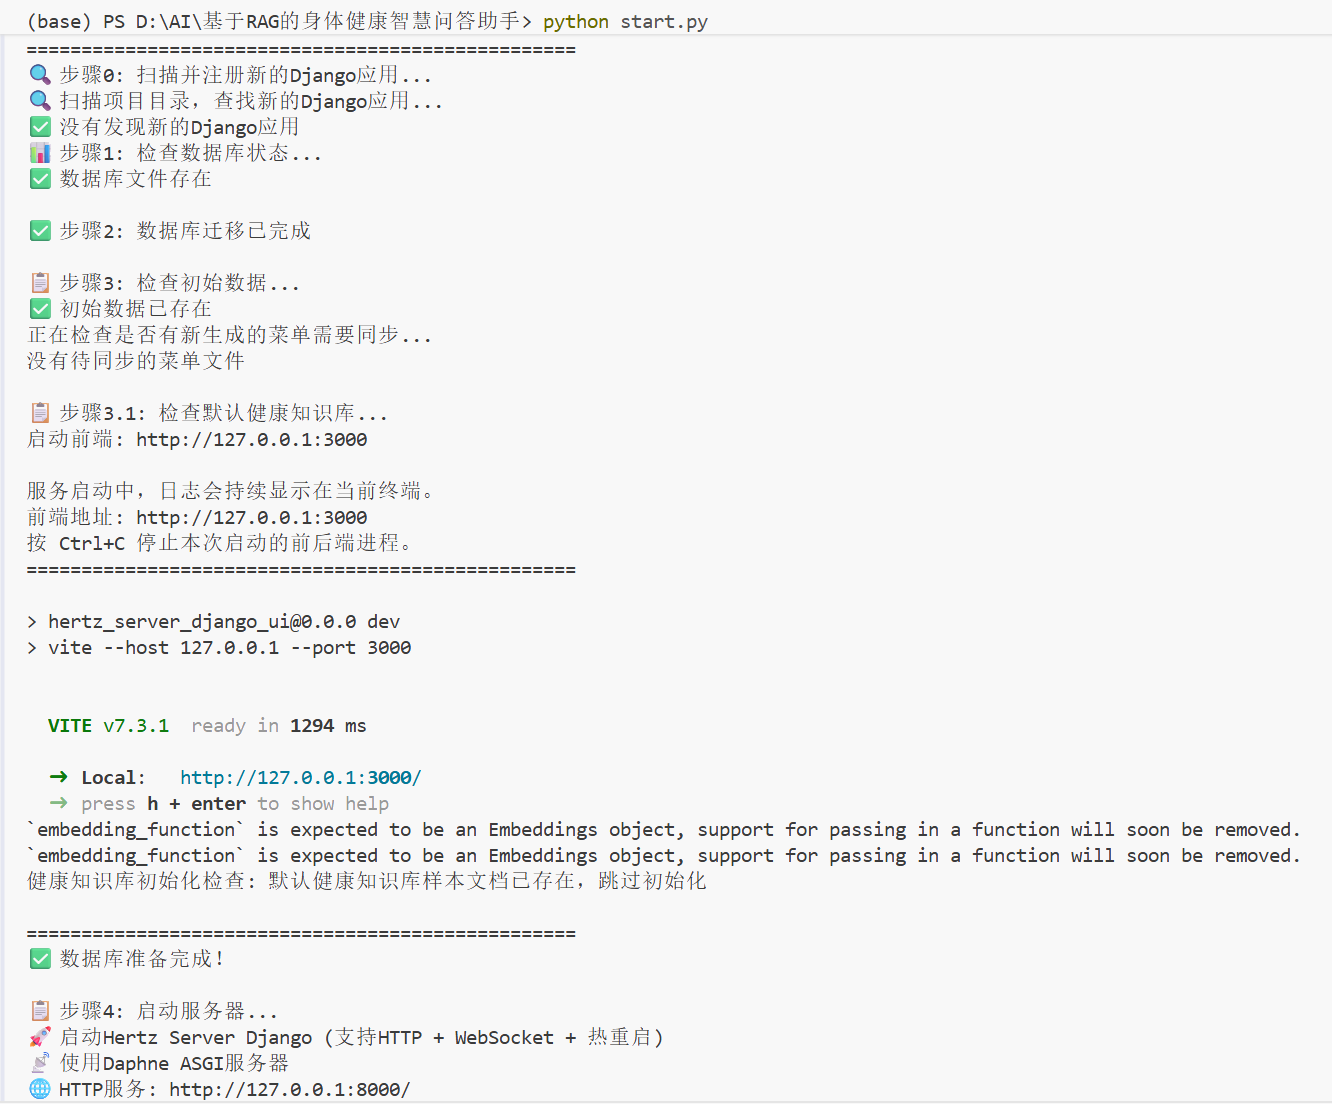
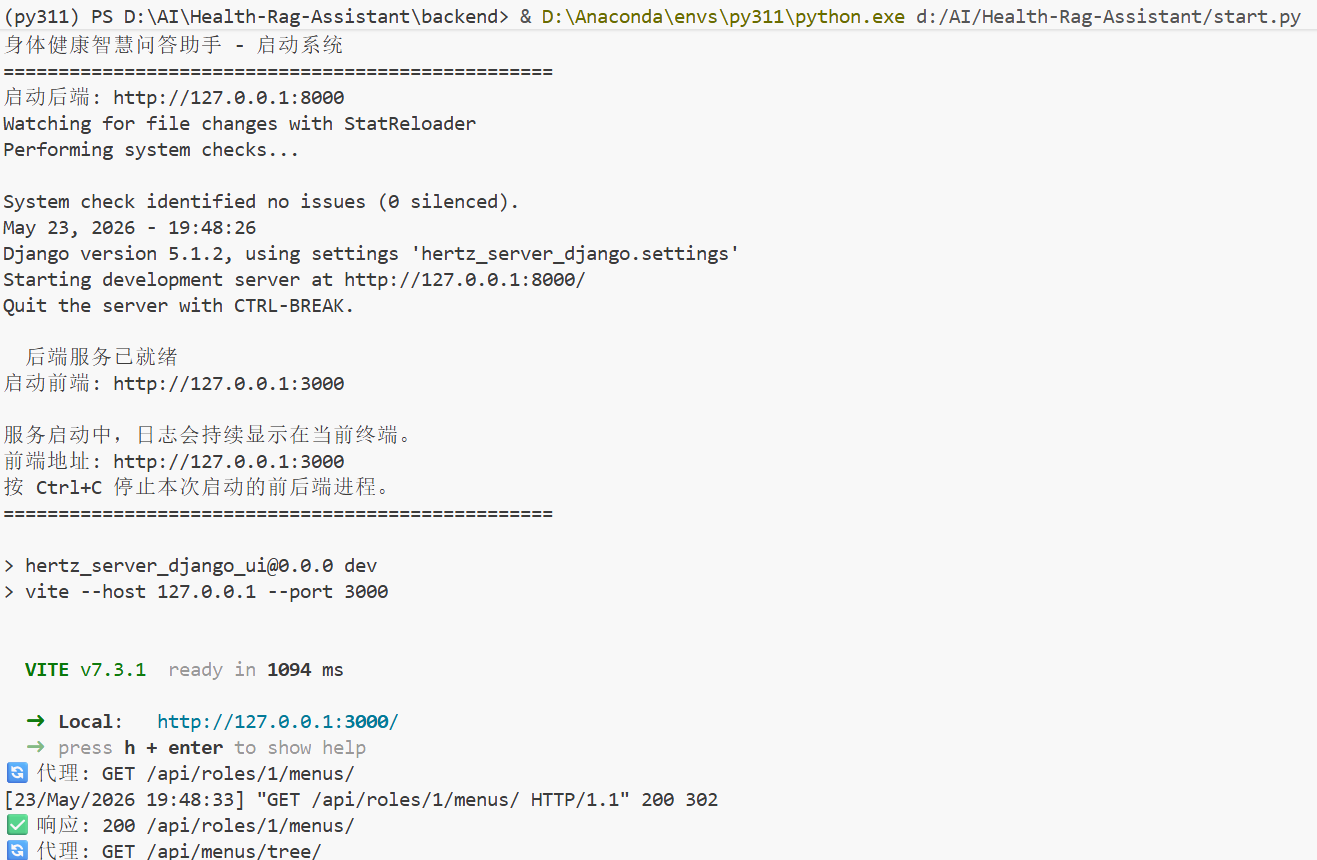
update

Changed region(s): [[0.0, 0.0, 0.9962, 0.6047], [0.0, 0.6349, 0.9651, 1.0]]

diff --git a/frontend/src/views/admin_page/HealthRagRetrievalDebug.vue b/frontend/src/views/admin_page/HealthRagRetrievalDebug.vue
@@ -22,7 +22,7 @@
             </a-button>
           </a-space>
           <div class="field-tip">
-            建议：先用 TopK=5、样本数=20 快速验证；稳定后改为样本数=100 做正式留档。
+            建议：先用 TopK=8、样本数=20 快速验证；稳定后改为样本数=100 做正式留档。
           </div>
           <div v-if="ragasResult" class="ragas-result">
             <div>耗时：{{ ragasResult.elapsed_ms }}ms</div>
@@ -110,11 +110,11 @@ const retrievalEvalLoading = ref(false);
 const retrievalEvalResult = ref<any>(null);
 const form = reactive({
   question: "",
-  top_k: 5,
+  top_k: 8,
 });
 const ragasForm = reactive({
   input: "health_eval_questions_cmedqa_v1.jsonl",
-  top_k: 5,
+  top_k: 8,
   limit: 20,
 });
 
@@ -166,7 +166,7 @@ const runDebug = async () => {
   try {
     const res = await healthRagApi.retrievalDebug({
       question: form.question.trim(),
-      top_k: Number(form.top_k) || 5,
+      top_k: Number(form.top_k) || 8,
     });
     if (!res.success) {
       message.error(res.message || "调试失败");
@@ -186,7 +186,7 @@ const runRagasEval = async () => {
   try {
     const res = await healthRagApi.runRagasEval({
       input: ragasForm.input?.trim() || "health_eval_questions_cmedqa_v1.jsonl",
-      top_k: Number(ragasForm.top_k) || 5,
+      top_k: Number(ragasForm.top_k) || 8,
       limit: Number(ragasForm.limit) || 20,
     });
     if (!res.success) {
@@ -207,7 +207,7 @@ const runRetrievalEval = async () => {
   try {
     const res = await healthRagApi.runRetrievalEval({
       input: ragasForm.input?.trim() || "health_eval_questions_cmedqa_v1.jsonl",
-      top_k: Number(ragasForm.top_k) || 5,
+      top_k: Number(ragasForm.top_k) || 8,
       limit: Number(ragasForm.limit) || 20,
     });
     if (!res.success) {

diff --git a/backend/hertz_server_django/settings.py b/backend/hertz_server_django/settings.py
@@ -421,8 +421,8 @@ EMBEDDING_BATCH_SIZE = ROOT_ENV_CONFIG("EMBEDDING_BATCH_SIZE", default=10, cast=
 QDRANT_URL = ROOT_ENV_CONFIG("QDRANT_URL", default="http://127.0.0.1:6333")
 QDRANT_COLLECTION = ROOT_ENV_CONFIG("QDRANT_COLLECTION", default="health_rag_chunks")
 QDRANT_TIMEOUT = ROOT_ENV_CONFIG("QDRANT_TIMEOUT", default=15, cast=int)
-RAG_TOP_K = ROOT_ENV_CONFIG("RAG_TOP_K", default=5, cast=int)
-RAG_VECTOR_TOP_K = ROOT_ENV_CONFIG("RAG_VECTOR_TOP_K", default=30, cast=int)
+RAG_TOP_K = ROOT_ENV_CONFIG("RAG_TOP_K", default=8, cast=int)
+RAG_VECTOR_TOP_K = ROOT_ENV_CONFIG("RAG_VECTOR_TOP_K", default=50, cast=int)
 RAG_ENABLE_QUERY_EXPANSION = ROOT_ENV_CONFIG(
     "RAG_ENABLE_QUERY_EXPANSION",
     default=True,

diff --git a/backend/health_rag_assistant/services/rag_service.py b/backend/health_rag_assistant/services/rag_service.py
@@ -68,9 +68,6 @@ HEALTH_QUERY_EXPANSIONS: Dict[str, Sequence[str]] = {
     "减脂": ("减肥", "体重管理", "控制热量", "运动", "饮食控制"),
     "体重": ("体重管理", "减脂", "肥胖", "运动", "饮食控制"),
     "肥胖": ("体重管理", "减肥", "减脂", "控制热量", "运动", "饮食控制"),
-    "调理": ("改善", "缓解", "建议", "生活规律", "规律作息", "注意休息"),
-    "怎么办": ("怎么治疗", "怎么缓解", "怎么改善", "建议"),
-    "怎么": ("怎么办", "怎么治疗", "怎么缓解", "怎么改善", "建议"),
 }
 
 MIN_SOURCE_SCORE = 0.15

diff --git a/部署文档.md b/部署文档.md
@@ -93,3 +93,53 @@ docker compose exec backend python manage.py evaluate_health_rag_ragas --input h
 2. 前端改为 `npm run build` 后由 nginx 托管静态文件。
 3. 引入 HTTPS、域名、访问控制与日志采集。
 4. 索引重建与大文件导入改为 Celery 异步任务。
+
+## 10. 自动部署（GitHub Actions）
+
+仓库已提供工作流：
+
+`/.github/workflows/deploy.yml`
+
+触发方式：
+
+1. push 到 `main` 分支自动触发
+2. 在 GitHub Actions 页面手动点 `Run workflow`
+
+### 10.1 服务器准备
+
+在服务器上先安装：
+
+1. `git`
+2. `docker` / `docker compose`
+
+并确保目标目录存在写权限，例如：
+
+`/opt/Health-Rag-Assistant`
+
+### 10.2 GitHub Secrets
+
+在仓库 Settings -> Secrets and variables -> Actions 中添加：
+
+1. `DEPLOY_HOST`：服务器公网 IP
+2. `DEPLOY_PORT`：SSH 端口（默认 22）
+3. `DEPLOY_USER`：SSH 登录用户（如 `root` 或普通 sudo 用户）
+4. `DEPLOY_SSH_KEY`：私钥内容（建议专用 deploy key）
+5. `DEPLOY_APP_DIR`：服务器部署目录（如 `/opt/Health-Rag-Assistant`）
+
+### 10.3 首次上线步骤
+
+1. 手动在服务器执行一次：
+   - `git clone`
+   - `cp backend/.env.example backend/.env`
+   - 编辑好真实 `backend/.env`（模型 key、Qdrant 等）
+2. 在 GitHub 上触发一次 `Deploy To Server` 工作流。
+3. 工作流会执行：
+   - `git pull` 最新代码
+   - `docker compose up -d --build`
+   - 健康检查 `GET /api/health-rag/health/`
+
+### 10.4 面试可讲要点
+
+1. 我把部署流程做成了 CI/CD：代码推送后自动拉取、自动构建、自动部署。
+2. 通过 GitHub Secrets 管理服务器连接信息，避免密钥入库。
+3. 部署后执行健康检查，保证服务可用性可验证。

diff --git a/README.md b/README.md
@@ -333,3 +333,6 @@ venv\Scripts\python manage.py evaluate_health_rag_ragas --input health_eval_ques
 
 最小部署编排：`docker-compose.yml`  
 部署步骤文档：`部署文档.md`
+
+已提供最小 CI/CD 工作流：`/.github/workflows/deploy.yml`  
+支持 `push main -> SSH 登录服务器 -> docker compose up -d --build`。